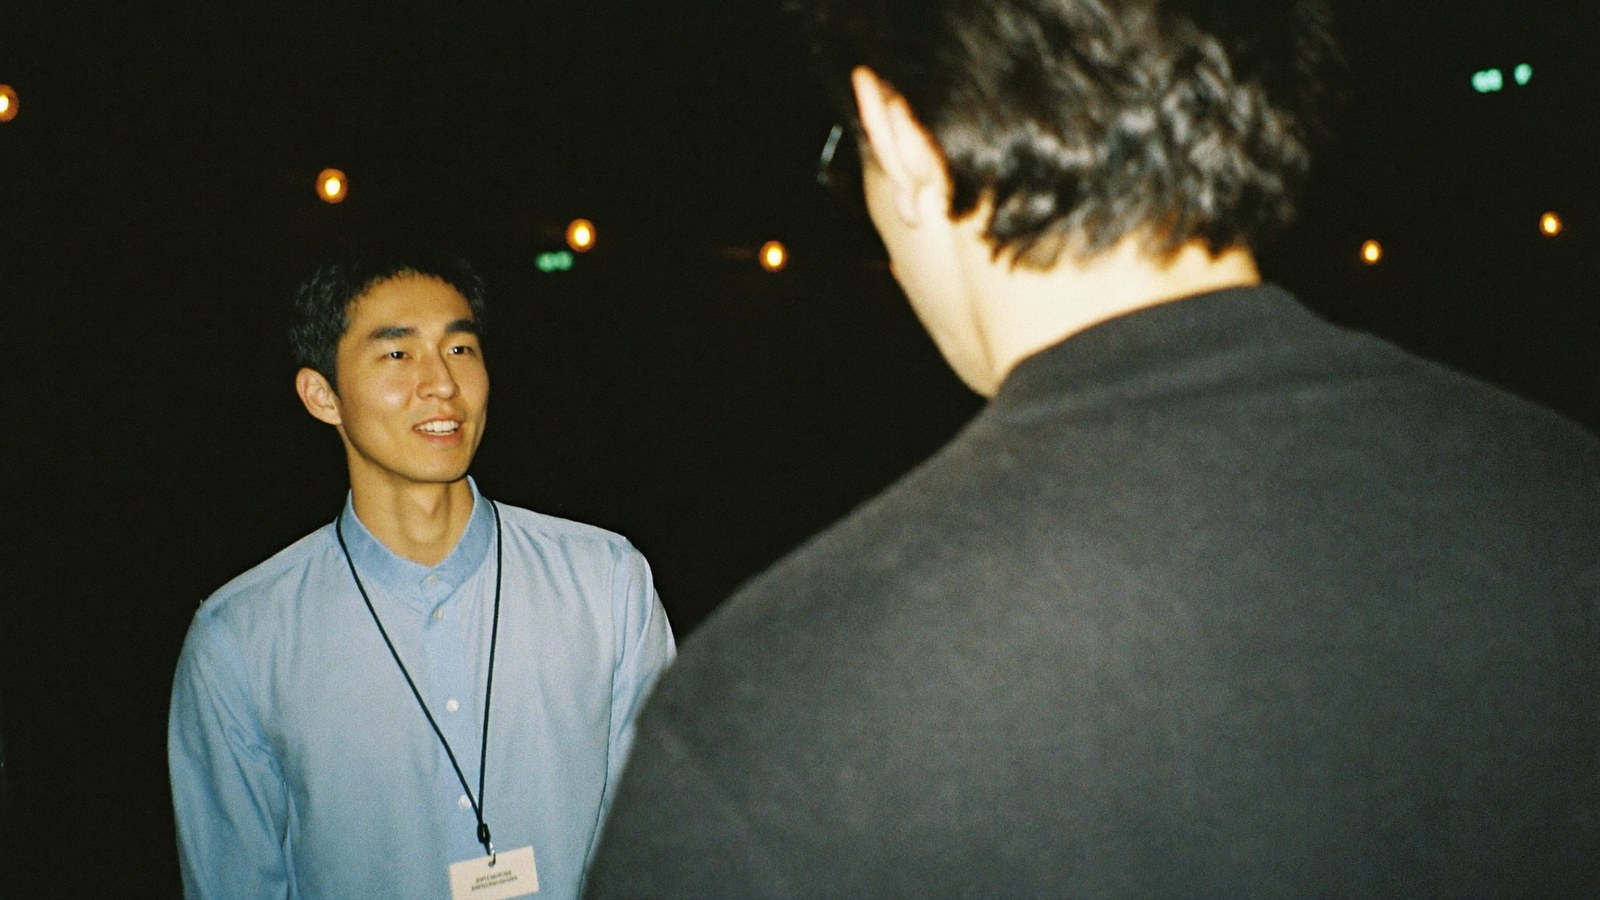
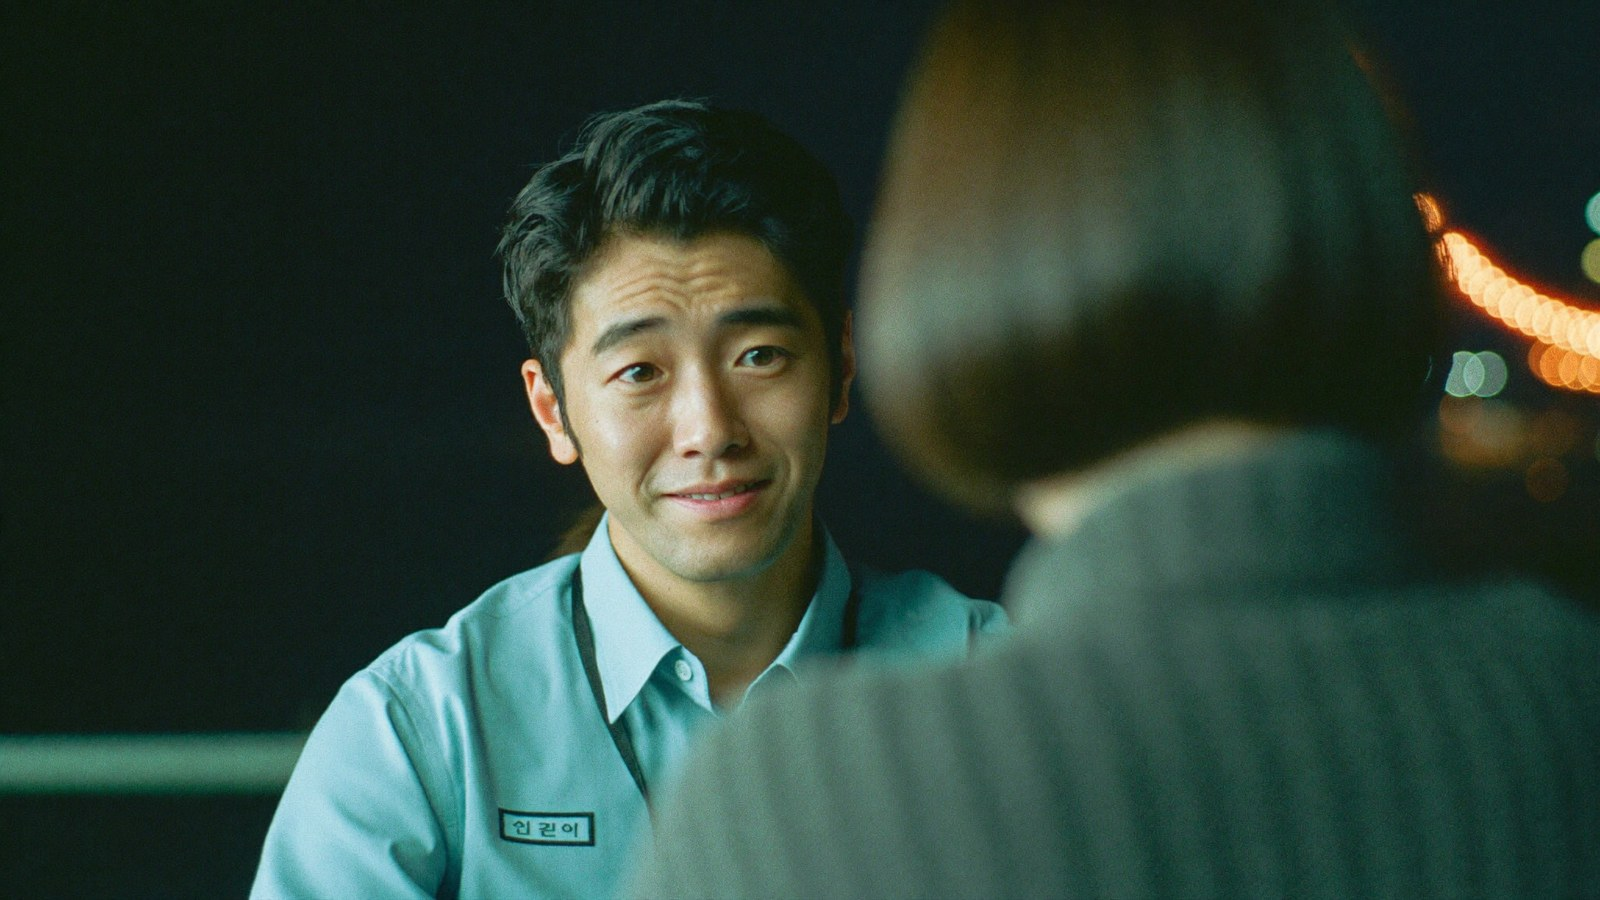
feat: 선배 캐릭터를 여성으로 변경
인물이 등장하는 5컷(2·3·11·15·16)을 재생성했습니다. 조명·컬러·의상
명도는 유지해 룩 시스템은 그대로입니다.

- 히어로 컷 3테이크 비교 후 정면 응시본 채택. 나머지 둘은 입을 가리거나
  시선이 카메라를 벗어나 제4의 벽 파괴에 부적합
- 샷 3의 표정을 근육 움직임으로 서술해 "웃음이 불안으로 바뀌는" 순간을
  정확히 잡음. 기존 남성 버전은 청년이 활짝 웃고 있어 시나리오와 어긋났음
- 샷 16 배경의 뭉개진 글자 제거
- 시나리오 문서의 캐릭터 설정과 인물 묘사 상수 갱신

Claude-Session: https://claude.ai/code/session_0126zQoECXJ1Qoyz4xLnXEtQ

diff --git a/조언v1.0.md b/조언v1.0.md
@@ -74,8 +74,10 @@
 ### 청년 창업가 — 26세
 갓 창업. 데모데이에서 처음으로 자기 앱을 사람들에게 보여주는 날. **후디 금지** — 개발자 클리셰를 피하고, 오늘을 위해 새로 산 듯한 셔츠에 행사 명찰을 목에 걸었습니다. 폰을 두 손으로 들고 있습니다. 자랑이 아니라 순수한 기쁨으로 보여야 합니다. 그래야 뒤가 아픕니다.
 
-### 선배 창업가 — 38세
-세련됨. 톤다운된 니트 또는 재킷, 무채색. 과하지 않은 시계 하나. 표정이 거의 변하지 않습니다. 한 손에 잔. **이 사람은 다 겪어본 사람이고, 그래서 화를 내지 않습니다.**
+### 선배 창업가 — 38세, 여성
+세련됨. 턱선에 떨어지는 단정한 검은 단발. 톤다운된 차콜 그레이 니트, 무채색. 과하지 않은 은색 시계와 미니멀한 실버 귀걸이. 표정이 거의 변하지 않습니다. 한 손에 잔. **이 사람은 다 겪어본 사람이고, 그래서 화를 내지 않습니다.**
+
+> **왜 여성인가**: 나이 든 남자 선배가 젊은 남자 후배를 훈수하는 구도는 이미 닳았고, §3-3의 "재수 없음" 리스크를 키웁니다. 여성 선배로 두면 그 클리셰가 사라지면서 '세련됨'이 더 선명해지고, 조언이 위계가 아니라 **경험에서 나온 것**으로 읽힙니다. 실제 생성에서도 정면 응시가 훈계보다 관조로 읽혀 톤이 안전해졌습니다.
 
 > 캐스팅 기준: 두 사람이 나란히 섰을 때 **옷의 채도 차이**만으로 관계가 읽혀야 합니다. 청년은 밝고 새것, 선배는 어둡고 길들여진 것.
 
@@ -292,12 +294,13 @@ warm charcoal blacks, fine film grain, soft halation, natural Korean skin tones
 
 ```
 [선배]
-38세 한국인, 짧게 정돈된 검은 머리, 무채색 차콜 니트,
-얇은 금속 시계 왼손목, 무표정, 안경 없음
+38세 한국인 여성, 턱선 길이의 단정한 검은 단발,
+차콜 그레이 니트, 얇은 은색 시계 왼손목,
+미니멀한 실버 귀걸이, 무표정, 안경 없음
 
 [청년]
-26세 한국인, 부스스한 검은 머리, 밝은 하늘색 셔츠,
-목에 행사 명찰 스트랩, 상기된 표정
+26세 한국인 남성, 부스스한 검은 머리, 밝은 하늘색 셔츠,
+검은 스트랩에 흰 명찰, 상기된 표정
 ```
 
 **의상을 실루엣과 명도로 잠급니다.** 무늬·프린트 배제. 조명이 바뀌어도 실루엣과 명도가 같으면 동일인으로 읽힙니다.

diff --git a/stills/README.md b/stills/README.md
@@ -5,7 +5,7 @@
 
 - **모델**: `soul_2` (Higgsfield) · 2K · 16:9
 - **생성일**: 2026-09-01
-- **소모 크레딧**: 약 4 (이미지 32장 생성, 재작업 포함)
+- **소모 크레딧**: 약 5.5 (이미지 43장 생성, 재작업 포함)
 - **콘택트시트**: [`../조언v1.0_스틸컷.jpg`](../조언v1.0_스틸컷.jpg)
 
 여기 커밋된 파일은 1600px JPEG입니다. 2K 원본은 Higgsfield 계정의 생성 기록에 있습니다.
@@ -44,9 +44,10 @@ natural Korean skin texture
 인물 묘사는 매 컷 동일 문장을 복붙했습니다.
 
 ```
-[선배] 38세 한국인, 짧게 정돈된 검은 머리, 차콜 그레이 니트,
-       얇은 은색 시계 왼손목, 무표정, 안경 없음
-[청년] 26세 한국인, 부스스한 검은 머리, 하늘색 셔츠,
+[선배] 38세 한국인 여성, 턱선 길이의 단정한 검은 단발,
+       차콜 그레이 니트, 얇은 은색 시계 왼손목,
+       미니멀한 실버 귀걸이, 무표정, 안경 없음
+[청년] 26세 한국인 남성, 부스스한 검은 머리, 하늘색 셔츠,
        검은 스트랩에 흰 명찰
 ```
 
@@ -85,6 +86,26 @@ natural Korean skin texture
 
 32장을 생성해 14장을 채택했습니다. **채택률 약 44%** — 문서 §10-7이 전제한
 10~15%보다 훨씬 높습니다. 인물 컷은 재작업이 잦았고 인서트는 대체로 한 번에 나왔습니다.
+
+## 선배 캐릭터 변경 (여성)
+
+선배를 여성으로 교체하면서 인물이 등장하는 5컷(2·3·11·15·16)을 재생성했습니다.
+**조명·컬러·의상 명도는 그대로 유지**해 룩 시스템을 깨지 않았습니다.
+
+히어로 컷(11)은 3테이크를 뽑아 비교했습니다.
+
+| 테이크 | 판단 |
+|---|---|
+| A | ✅ **채택** — 정면 응시, 무표정한 입에 따뜻한 눈 |
+| B | ❌ 손가락이 입을 가림 — 립싱크 컷으로 치명적 |
+| C | ❌ 시선이 카메라를 벗어남 — 제4의 벽을 깨지 못함 |
+
+탈락본은 `../alts/`가 아니라 Higgsfield 생성 기록에 남아 있습니다.
+
+부수 효과로 **샷 3의 표정이 개선**됐습니다. 남성 버전에서는 청년이 활짝 웃고 있어
+"웃음이 불안으로 바뀌는" 시나리오와 어긋났는데, 재생성 때
+`his smile collapsing into worry, eyebrows lifting anxiously`로 감정을 명시해 해결했습니다.
+**표정은 형용사가 아니라 근육 움직임으로 서술**해야 합니다.
 
 ## 남은 이슈
 
